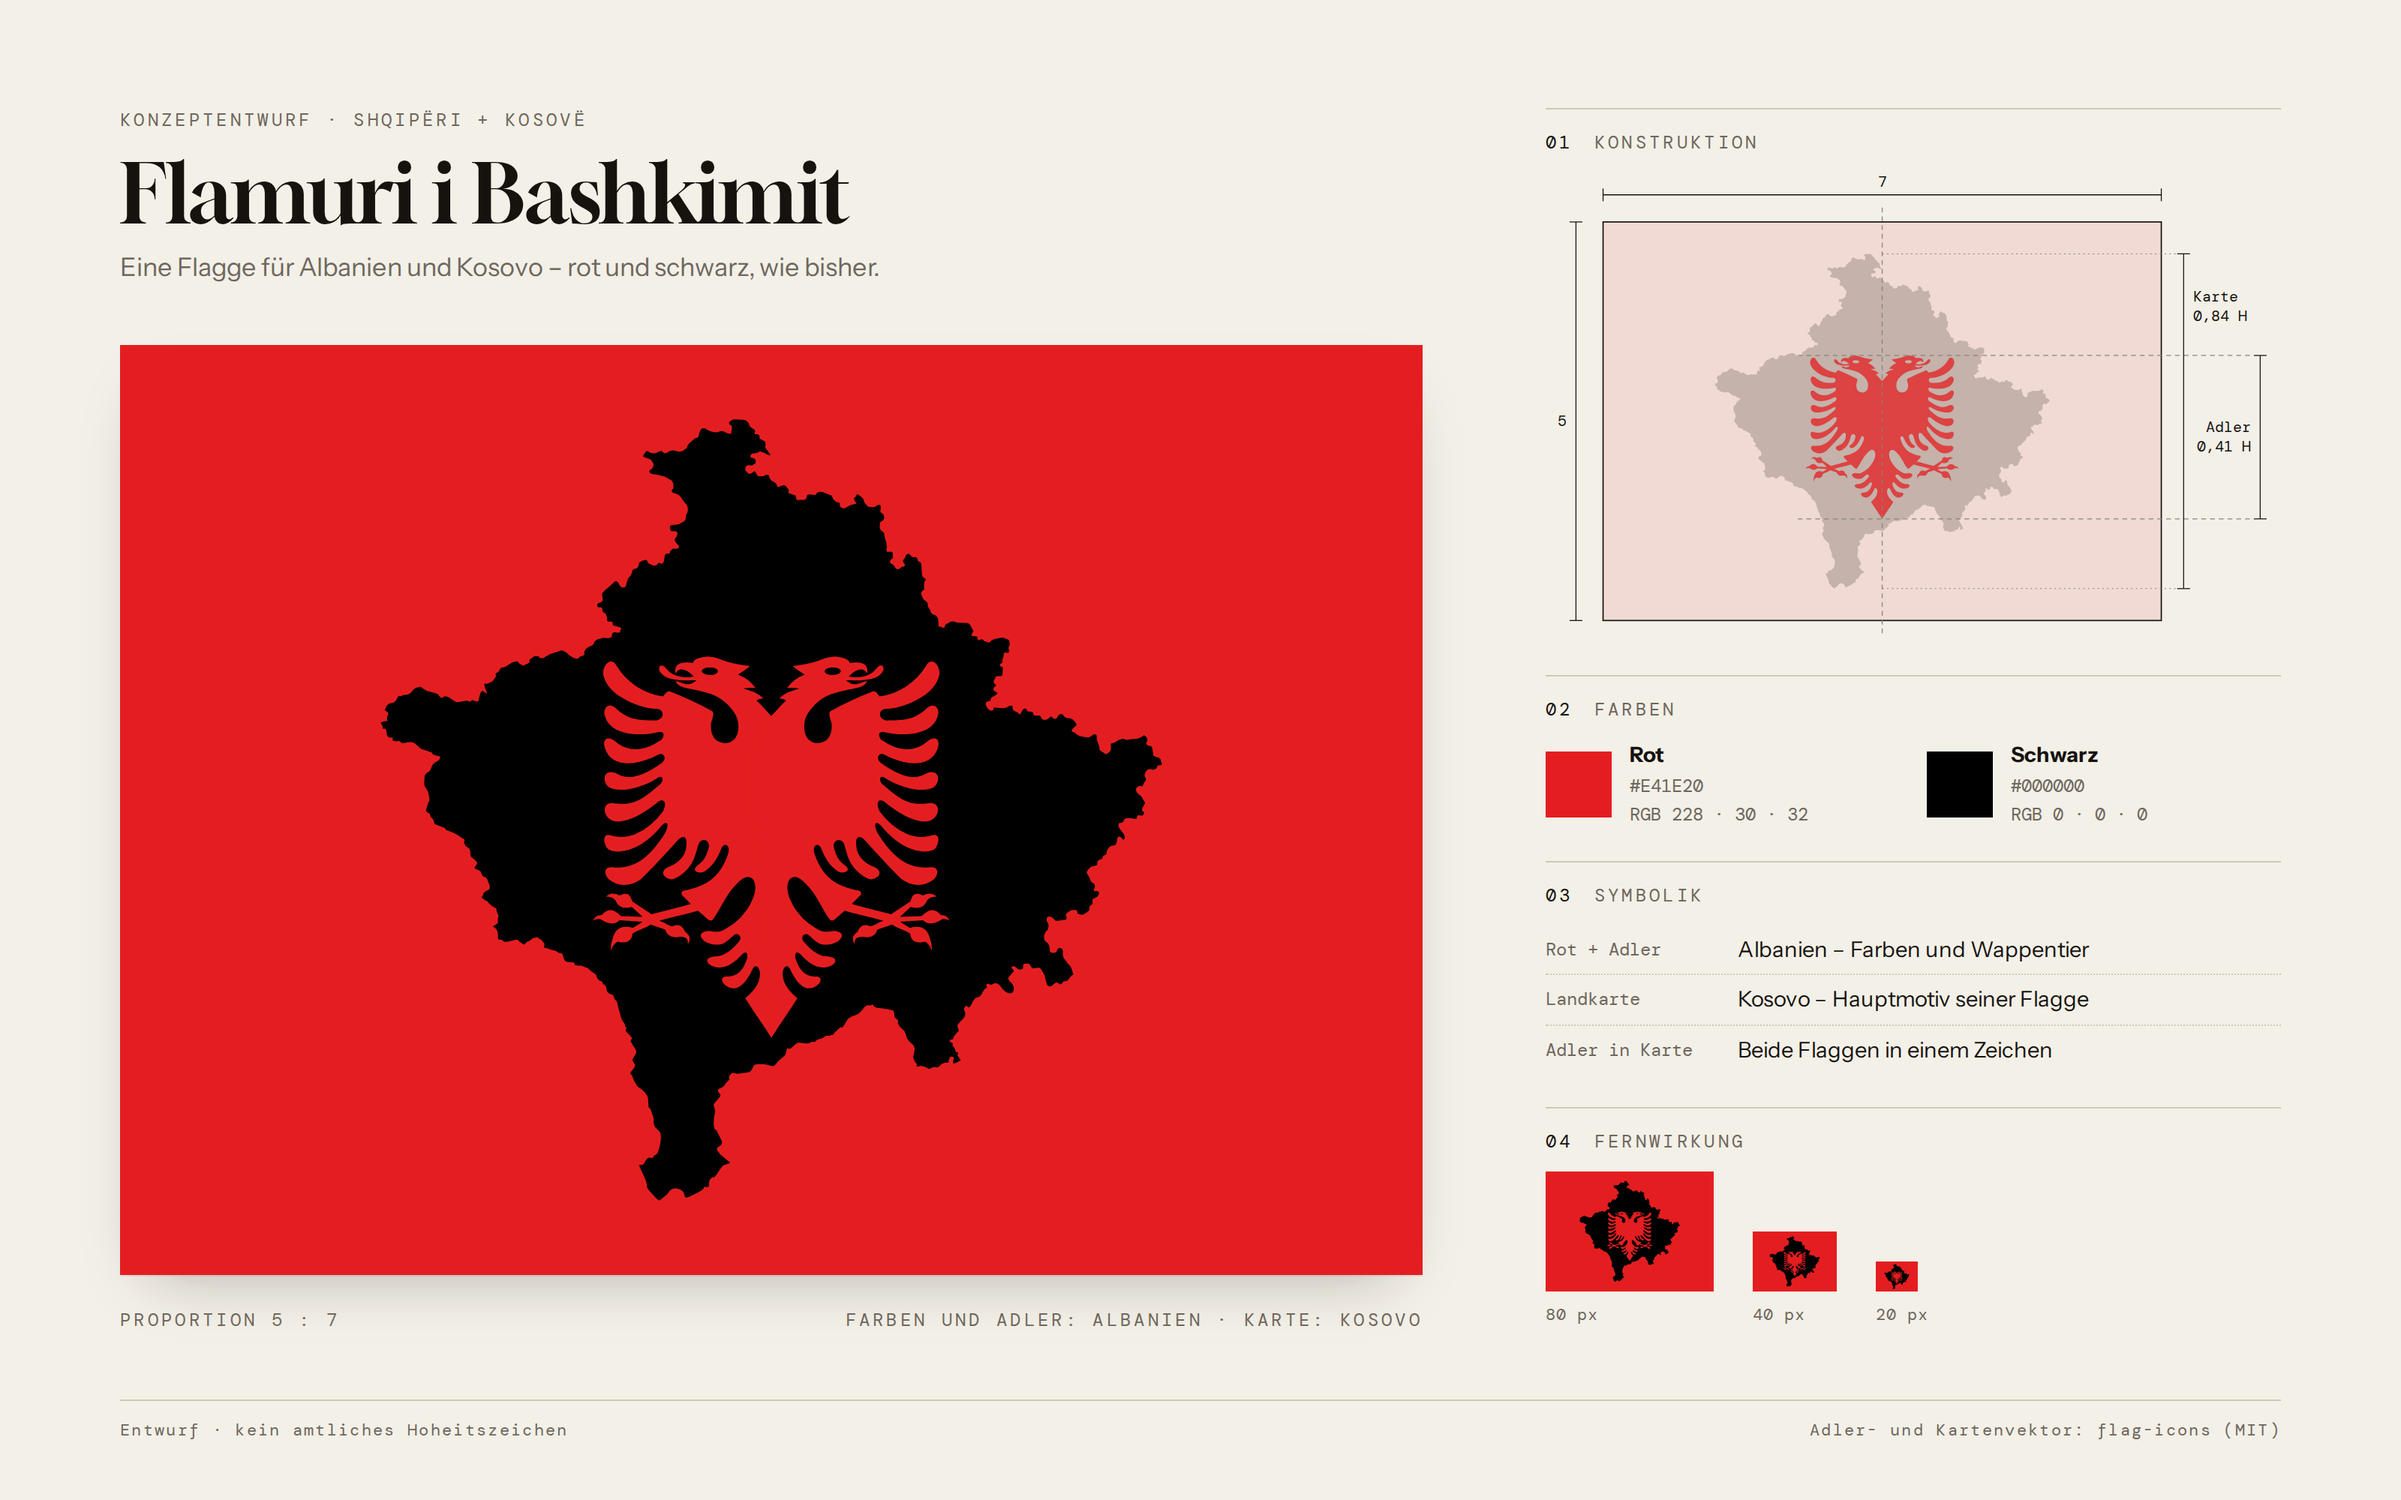
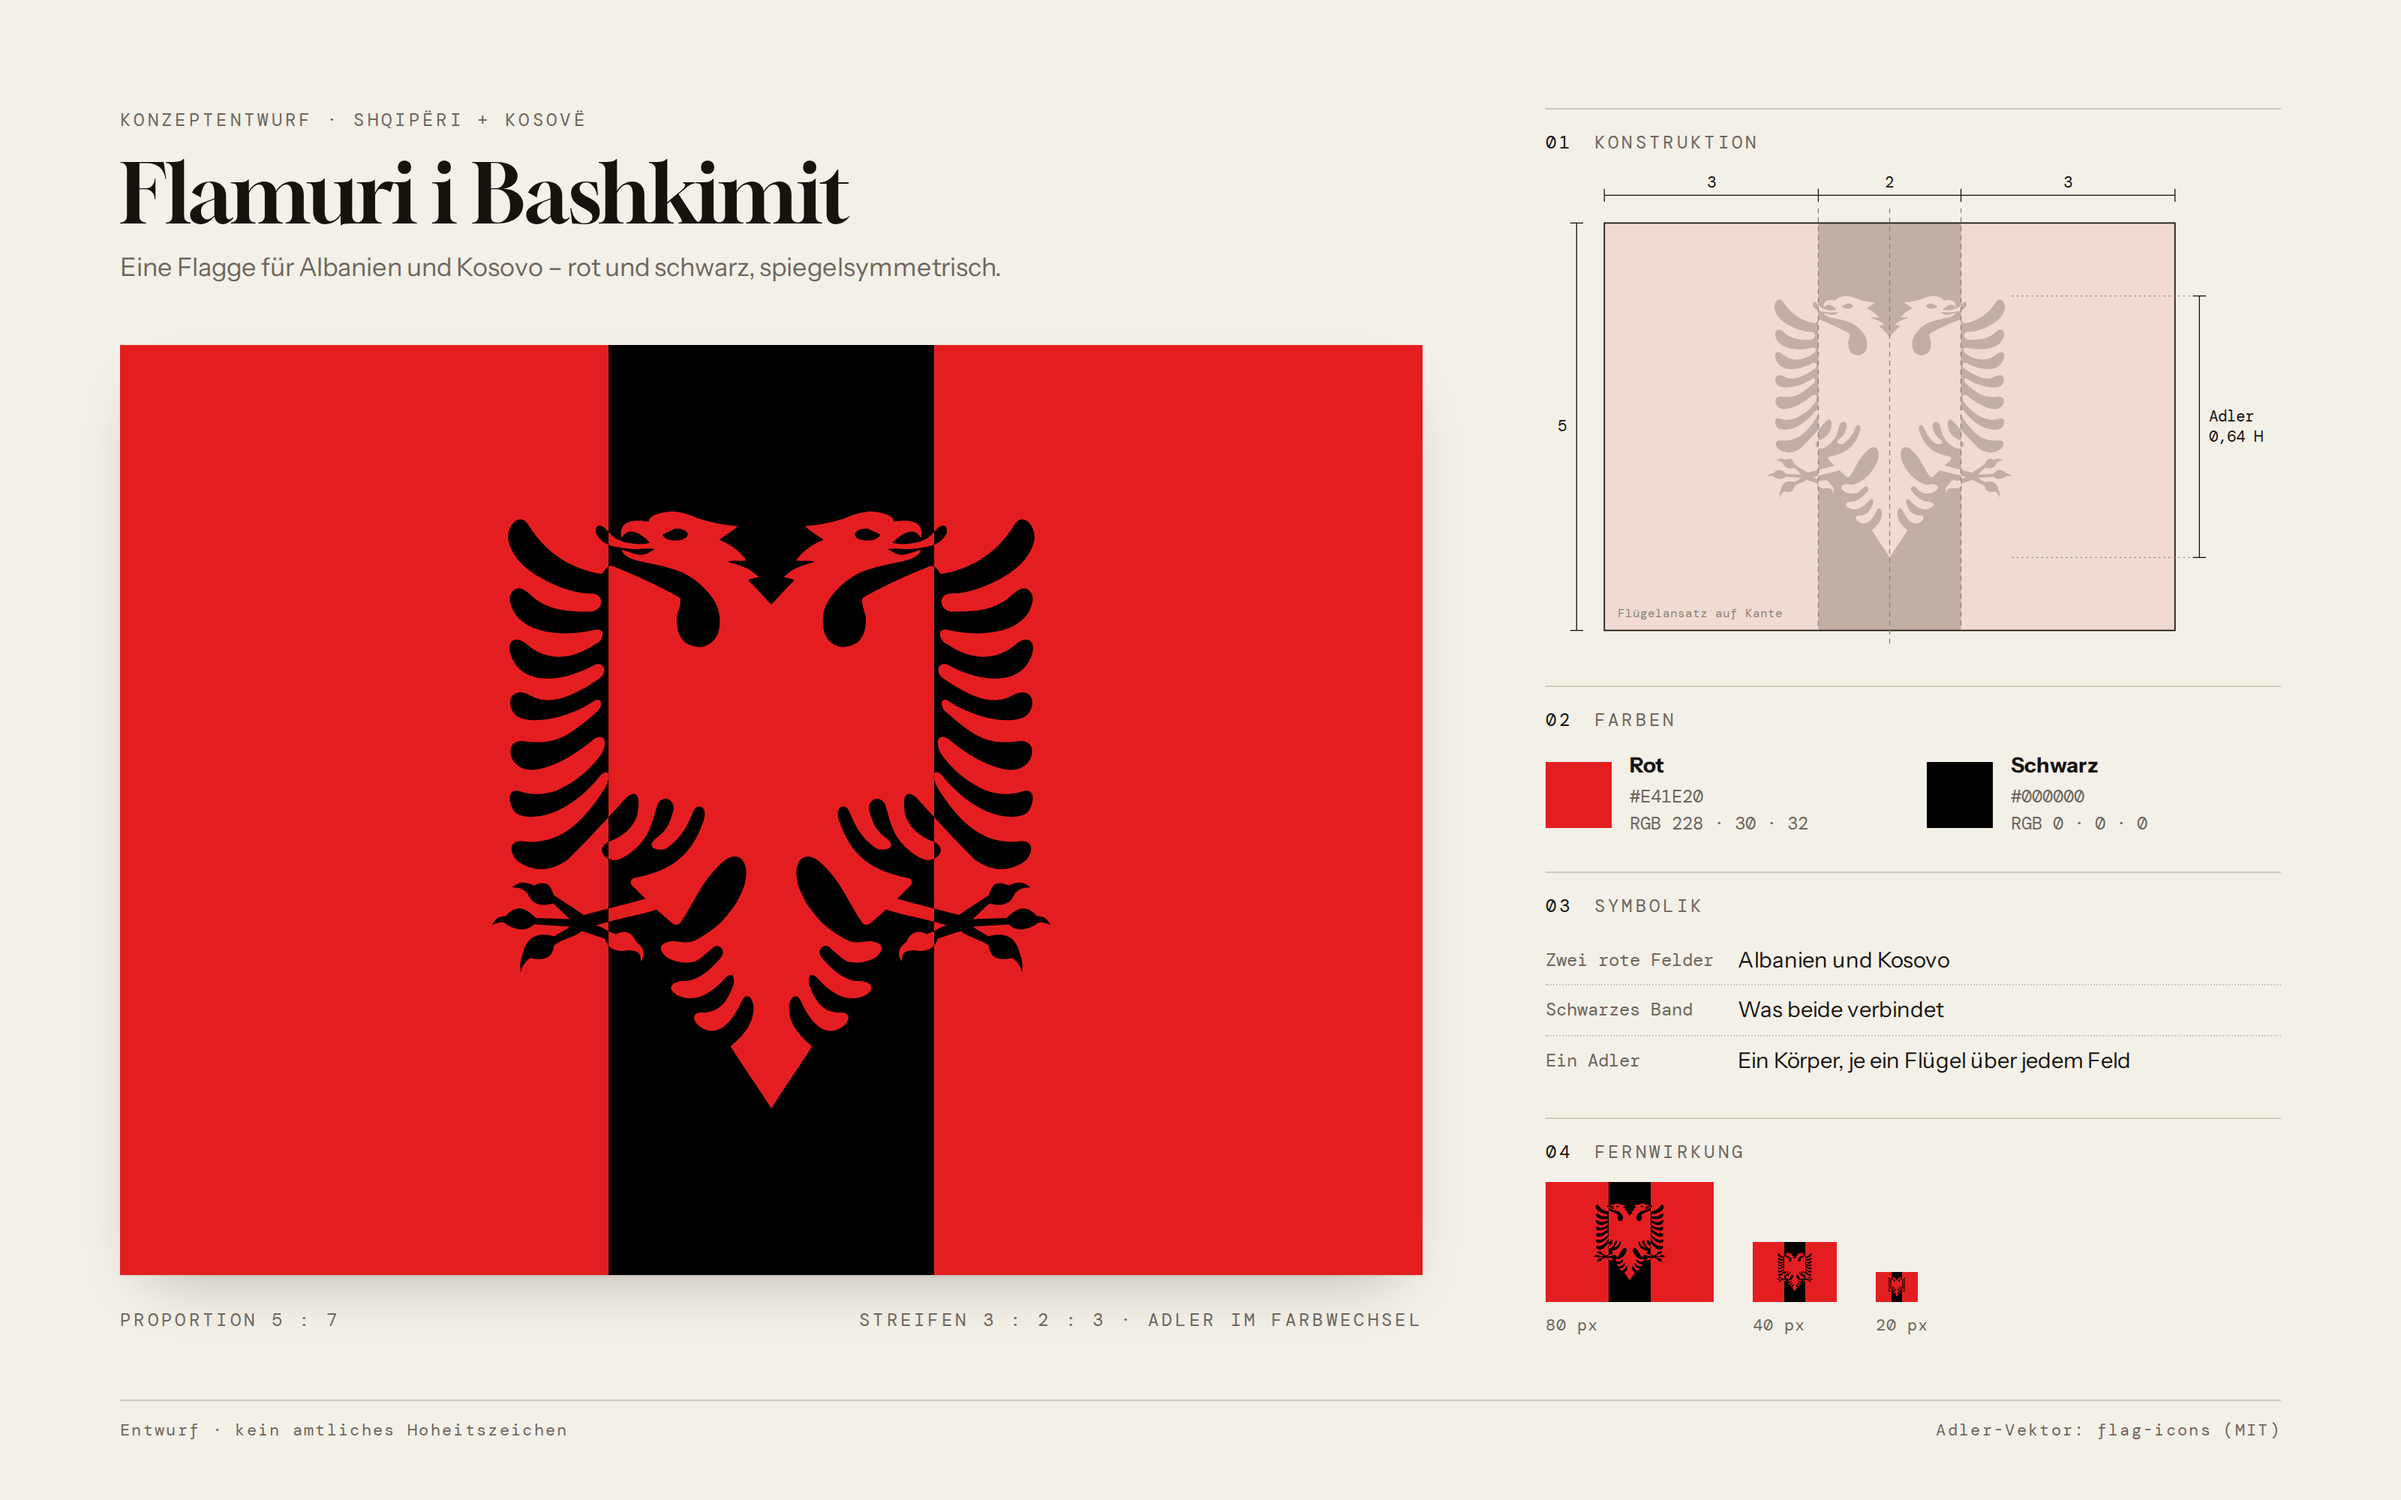
Rework flag concept: symmetric red-black-red with counterchanged eagle
Red-black-red vertical stripes (3:2:3) on a 5:7 field; the Albanian
double-headed eagle is counterchanged: red on the black band, black on
the red fields, with the wing roots on the stripe edges. Geometry is a
single black shape (band XOR eagle) built with boolean path ops, so the
SVG renders without hairline seams. Map version replaced.

Claude-Session: https://claude.ai/code/session_01779NssRfrDbZab3fQ6oxmi

diff --git a/design/flagge-albanien-kosovo/README.md b/design/flagge-albanien-kosovo/README.md
@@ -6,15 +6,15 @@ Konzeptentwurf, kein amtliches Hoheitszeichen.
 
 ## Idee
 
-Aufbau der Kosovo-Flagge, Farben und Wappentier Albaniens:
-die Landkarte des Kosovo in Schwarz auf rotem Feld, darin der albanische Doppeladler in Rot.
-Keine Sterne, keine weiteren Farben.
+Zwei rote Felder, dazwischen ein schwarzes Band, darüber der albanische Doppeladler im Farbwechsel:
+auf dem Band rot, auf den roten Feldern schwarz. Die Flagge ist vollständig spiegelsymmetrisch
+und nutzt nur die beiden Farben Albaniens.
 
 ## Dateien
 
 | Datei | Zweck |
 |---|---|
-| `flagge.svg` | Vektor-Master, beliebig skalierbar (Druck, Fahnenherstellung) |
+| `flagge.svg` | Vektor-Master aus genau zwei Flächen (rotes Feld, schwarze Form) – druck- und fahnentauglich |
 | `flagge.png` | 2800 × 2000 px |
 | `spezifikation.png` | Präsentationsblatt mit Konstruktion, Farben, Symbolik, Fernwirkung |
 
@@ -23,12 +23,12 @@ Keine Sterne, keine weiteren Farben.
 | Maß | Wert |
 |---|---|
 | Seitenverhältnis | 5 : 7 (wie Albanien) |
-| Karte | Höhe 0,84 H, Begrenzungsrahmen mittig auf der Flagge |
-| Adler | Höhe 0,41 H, auf der Mittelachse, Mittelpunkt bei 0,54 H |
-| Mindestrand | Adler überall mindestens 0,014 H vom Kartenrand entfernt |
+| Senkrechte Streifen | Rot – Schwarz – Rot im Verhältnis 3 : 2 : 3 |
+| Adler | Höhe ≈ 0,64 H, zentriert auf beiden Achsen |
+| Farbwechsel | Die Flügelansätze des Adlers liegen exakt auf den Streifenkanten |
 
-Größe und Position des Adlers sind so gewählt, dass er vollständig innerhalb der Karte liegt
-und an keiner Stelle in das rote Feld übergeht.
+Der Farbwechsel ist als echte Vektorgeometrie ausgeführt (schwarze Fläche = Band XOR Adler),
+nicht über Masken oder Clipping. Dadurch entstehen an den Kanten keine Haarlinien, egal in welcher Größe.
 
 ## Farben
 
@@ -39,10 +39,10 @@ und an keiner Stelle in das rote Feld übergeht.
 
 ## Symbolik
 
-- **Rot und Doppeladler** – Albanien, Farben und Wappentier
-- **Landkarte** – Kosovo, Hauptmotiv seiner Flagge
-- **Adler in der Karte** – beide Flaggen in einem Zeichen
+- **Zwei rote Felder** – Albanien und Kosovo
+- **Schwarzes Band** – was beide verbindet
+- **Ein Adler** – ein Körper, je ein Flügel über jedem Feld
 
 ## Quellen
 
-Adler- und Kartenvektor aus [flag-icons](https://github.com/lipis/flag-icons) (MIT-Lizenz).
+Adler-Vektor aus [flag-icons](https://github.com/lipis/flag-icons) (MIT-Lizenz).
